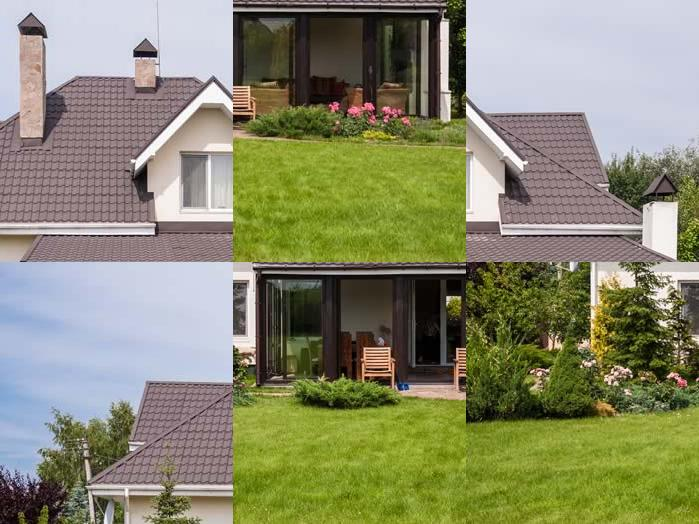
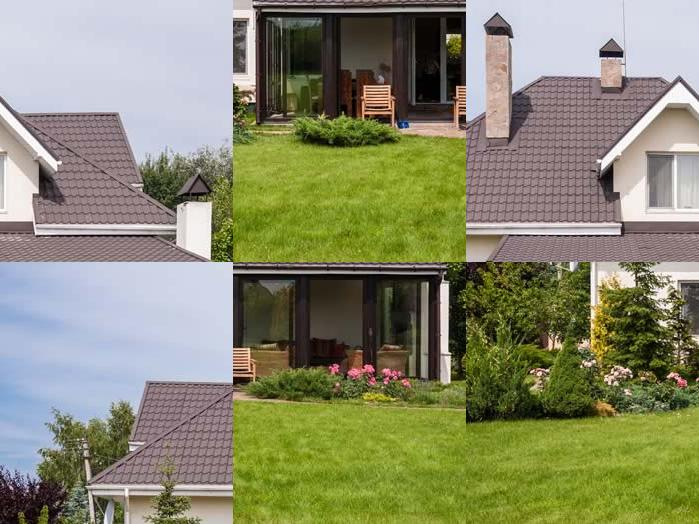
actualizado

diff --git a/11_Sep_30/imagenes6.m b/11_Sep_30/imagenes6.m
@@ -10,9 +10,11 @@ m = 3; % columnas de recuadros
 fila = floor(a/n)
 columna = floor(b/m)
 im2 = im(1:n*fila,1:m*columna,:);
-
+% crear celda de submatrices
+total = {};
 m2 = randperm(n*m)
 k = 1;
+aleatorio = randi(n*m)
 for i=1:n % barrido de recuadros filas
     f_ini = (i-1)*fila+1;
     f_fin = i*fila;
@@ -27,7 +29,11 @@ for i=1:n % barrido de recuadros filas
         f_fin2 = x*fila;
         c_ini2 = (y-1)*columna+1;
         c_fin2 = y*columna;
+        if k == aleatorio
+            % realizar promedios a tmp
+        end
         im2(f_ini2:f_fin2,c_ini2:c_fin2,:) = tmp;
+        % total = {total tmp};  ????
         %subplot(n,m,m2(k));
         %imshow(tmp);
         k = k+1;
@@ -35,3 +41,11 @@ for i=1:n % barrido de recuadros filas
 end
 imwrite(im2,'casa2.jpg');
 imshow(im2);
+% concatenar en fila(hacia la derecha)  z=cat(1,tmp,tmp);
+% concatenar en columna(hacia abajo)    z=cat(2,tmp,tmp);
+% concatenar en profundidad(eje z)      z=cat(3,tmp,tmp);
+
+% Tarea:
+% Descargar un archivo mp3, leerlo con  Matlab y reproducir un tramo
+% Manipular, cambiar velocidad, recortar, amplificar, unir
+
